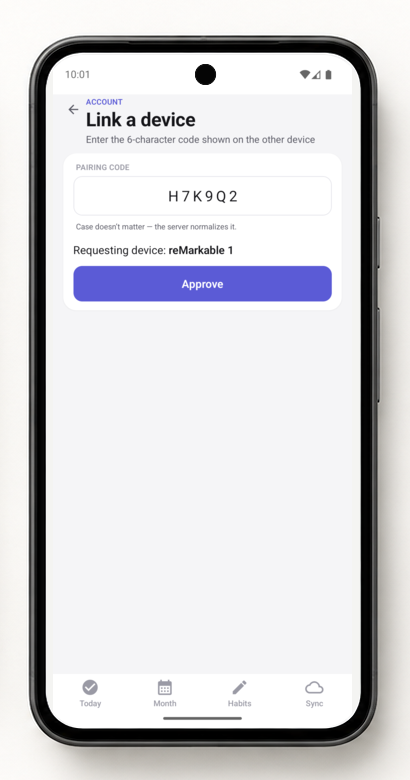
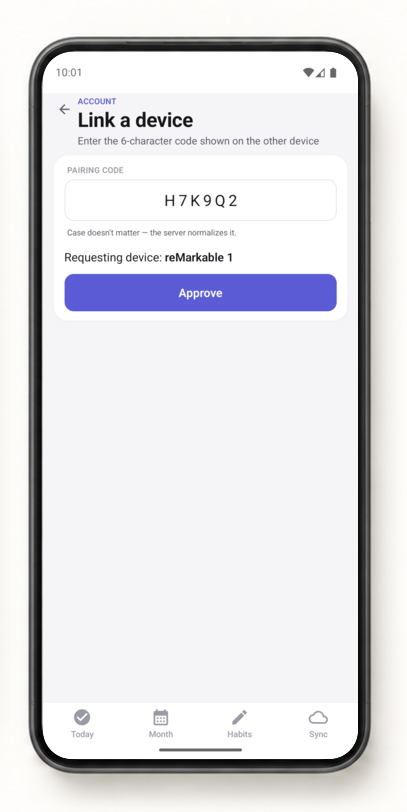
fix: match device frames to native screenshots
Use the selected original-inspired reMarkable frame and minimal graphite mobile frame, with exact native screen proportions and regenerated examples.

Changed region(s): [[0.059, 0.0308, 1.0, 1.0], [0.1474, 0.2154, 0.8256, 0.4]]

diff --git a/tools/readme-screenshots/README.md b/tools/readme-screenshots/README.md
@@ -9,12 +9,14 @@ These tools regenerate the real application images committed under
 Raw captures remain under `docs/assets/screenshots/` so they can be inspected without presentation
 effects. Their README-ready copies live under `docs/assets/screenshots/framed/`.
 
-The frame source is the existing AI-generated
-`docs/assets/device-frames/device-family-source.png`. The compositor crops the unchanged tablet or
-phone shell from that image, blanks its old screen pixels, fits a current capture into the
-calibrated screen window without cropping, masks the phone's round corners, and restores its camera
-cutout. Device texture, lighting, and shadow therefore remain stable across screenshot updates; AI
-is not involved after the frame source has been committed.
+The frame source is the retained AI-generated
+`docs/assets/device-frames/device-family-source.png`, combining the selected original-inspired
+reMarkable frame and minimal graphite phone frame. Its calibrated windows exactly match the native
+captures: 4:3 for reMarkable and 45:101 for 1080x2424 Android screenshots. The compositor crops the
+tablet or phone shell, blanks its screen pixels, fits the current capture without cropping,
+stretching, or gutters, and masks the phone's round corners. Device texture, lighting, and shadow
+therefore remain stable across screenshot updates; AI is not involved after the frame source has
+been committed.
 
 Both capture helpers create the matching framed output automatically. Existing or manually copied
 captures can be framed separately:
@@ -40,7 +42,8 @@ To frame an arbitrary compatible PNG, provide its client and explicit paths:
 pnpm screenshots:frame -- --client remarkable --input ./screen.png --output ./framed.png
 ```
 
-The compositor rejects the wrong orientation and large aspect-ratio mismatches. Smaller differences
+The compositor rejects the wrong orientation and large aspect-ratio mismatches. Native reMarkable
+and Android captures fill their windows exactly. Smaller differences from other compatible inputs
 are centered against the frame's off-white screen color rather than stretching or cropping the app
 UI. ImageMagick provides the only image-processing dependency.
 

diff --git a/docs/assets/device-frames/README.md b/docs/assets/device-frames/README.md
@@ -1,10 +1,12 @@
 # Device-frame source
 
-`device-family-source.png` is the original AI-generated device artwork used by the README linking
-concept. It is the immutable source for the deterministic screenshot compositor, rather than an
-image shown directly in the README.
+`device-family-source.png` is retained AI-generated artwork used by the README linking concept. It
+combines the selected original-inspired reMarkable frame with the selected minimal graphite phone
+frames. The display interiors are intentionally blank: real application pixels are added by the
+deterministic compositor.
 
-Keep its dimensions and device positions unchanged: `tools/readme-screenshots/lib/device-frames.mjs`
-contains screen-window coordinates calibrated to this file. The compositor replaces only those
-windows, so the source's device texture, lighting, and shadows are preserved in every generated
-image.
+Keep its dimensions and device positions unchanged. `tools/readme-screenshots/lib/device-frames.mjs`
+contains screen-window coordinates calibrated to this file: every reMarkable window is exactly 4:3
+and every Android window is exactly 45:101, matching the raw captures without cropping, stretching,
+or gutters. The compositor replaces only those windows, so device texture, lighting, and shadows
+remain stable in every generated image.
